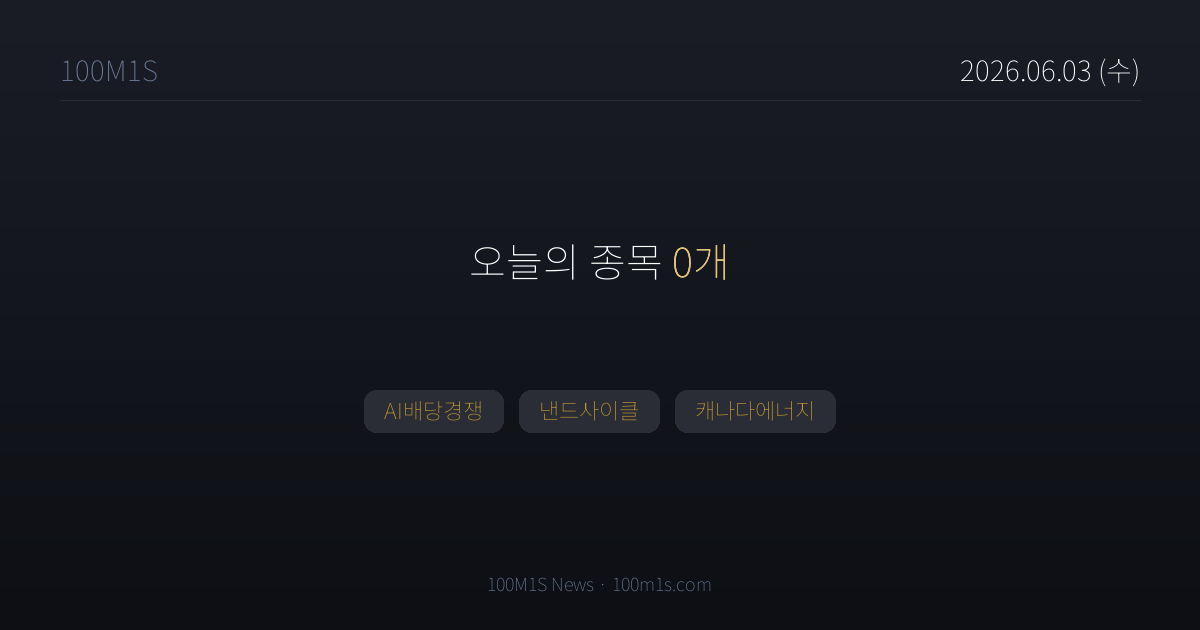
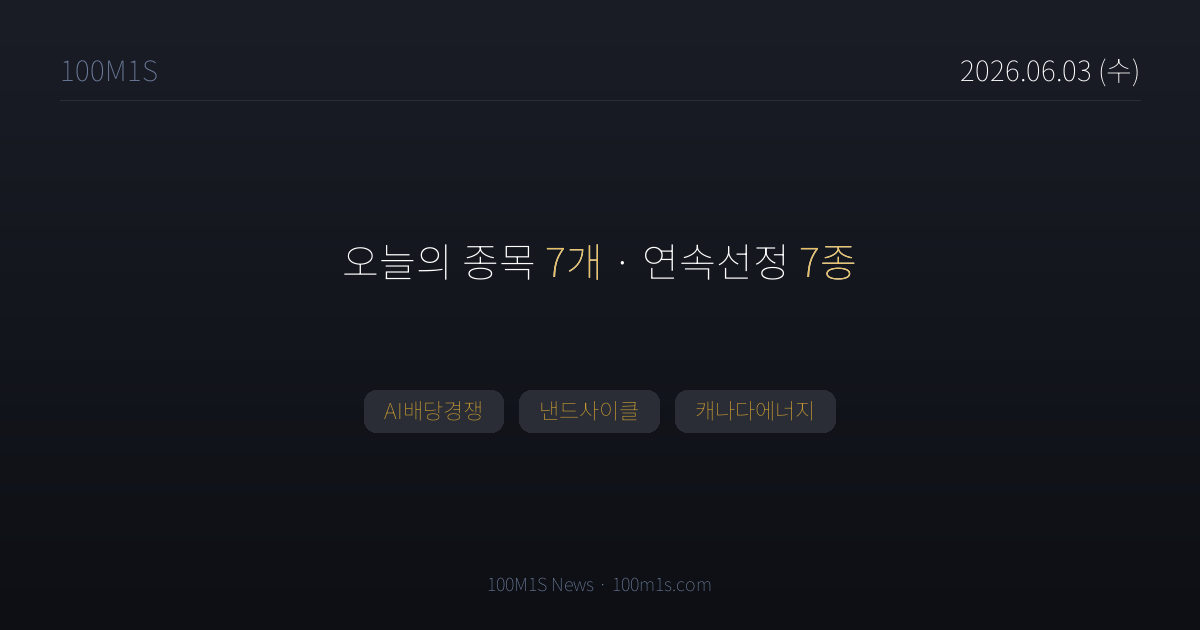
chore(kiwoom): 2026-06-03T09:17 condition search update

Changed region(s): [[0.2775, 0.3921, 0.7092, 0.4524]]

diff --git a/news/stock/2026-06-03.html b/news/stock/2026-06-03.html
@@ -3,7 +3,7 @@
 <head>
 <meta charset="UTF-8">
 <title>6월 3일 (수) 뉴스 — 100M1S</title>
-<meta property="og:title" content="6월 3일 (수) · 종목 0개">
+<meta property="og:title" content="6월 3일 (수) · 종목 7개">
 <meta property="og:description" content="AI배당경쟁, 낸드사이클, 캐나다에너지">
 <meta property="og:image" content="https://100m1s.com/og/news/stock/2026-06-03.png">
 <meta property="og:image:width" content="1200">
